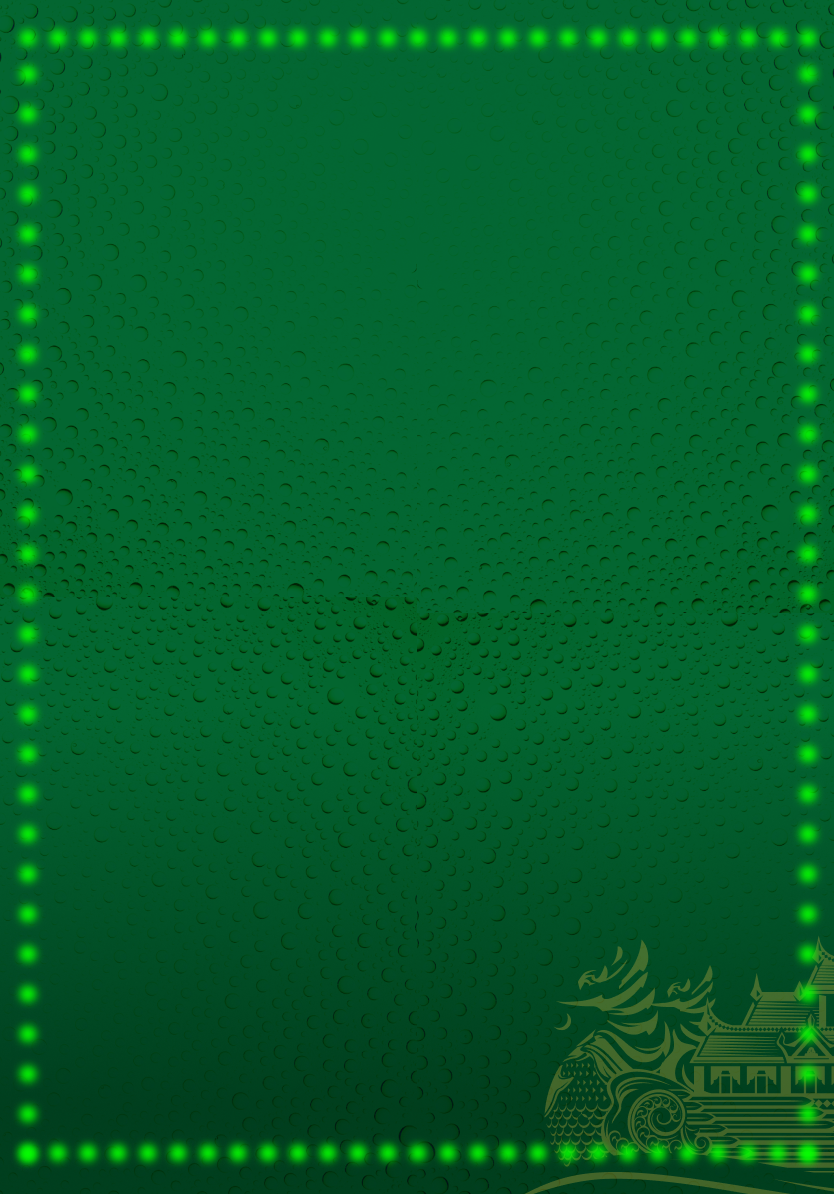
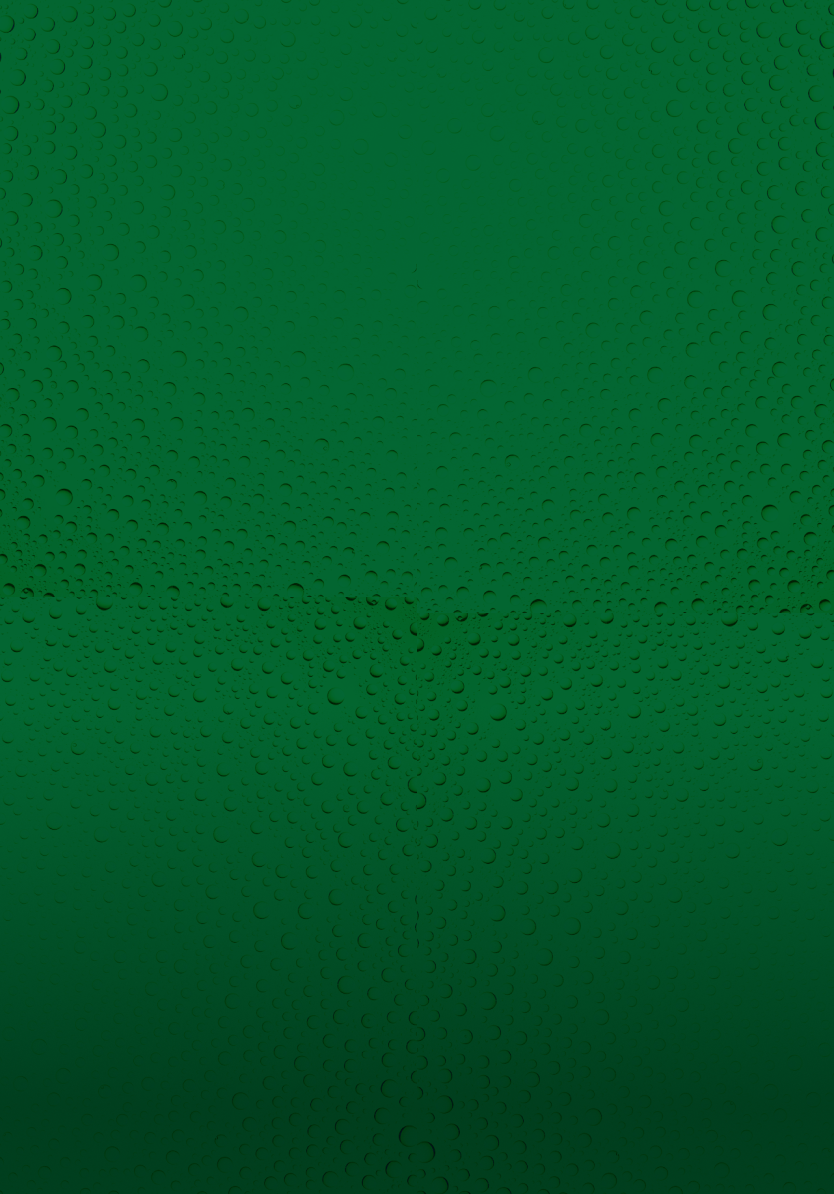
hotfix: bg responsive

Changed region(s): [[0.0, 0.0, 1.0, 1.0]]

diff --git a/src/components/GameSelect.jsx b/src/components/GameSelect.jsx
@@ -2,22 +2,14 @@ import React from "react";
 
 const GameSelect = () => {
   return (
-    <div className="w-full flex items-center m-auto ">
-      <div className="m-auto flex flex-col items-center space-y-10">
-        <div>
-          <img src="/assets/spin.png" alt="" />
-        </div>
-        <div>
-          <img src="/assets/spintext.png" alt="" />
-        </div>
+    <div className="w-full flex justify-evenly items-center px-10 gap-x-10">
+      <div className="flex flex-col items-center space-y-10">
+        <img src="/assets/spin.png" alt="spin" />
+        <img src="/assets/spintext.png" alt="spin text" />
       </div>
-      <div className="m-auto flex flex-col items-center space-y-10">
-        <div>
-          <img src="/assets/can.png" alt="" />
-        </div>
-        <div className="">
-          <img src="/assets/cantext.png" alt="" />
-        </div>
+      <div className="flex flex-col items-center space-y-10">
+        <img src="/assets/can.png" alt="can" />
+        <img src="/assets/cantext.png" alt="can text" />
       </div>
     </div>
   );

diff --git a/src/App.jsx b/src/App.jsx
@@ -1,11 +1,32 @@
 import { useState } from "react";
 
 import "./App.css";
+import GameSelect from "./components/GameSelect";
 
 function App() {
-  const [count, setCount] = useState(0);
-
-  return <main className="backdrop h-screen"></main>;
+  return (
+    <main className="relative bg-[#003F1E] bg-no-repeat bg-center min-h-screen flex justify-center items-center ">
+      <div className="absolute left-0 top-0 w-[40%]">
+        <div
+          className="game-text-bg bg-[#FF9900]/80 md:p-[2rem_2rem_3rem_2rem] p-[1rem_2rem_2rem_1rem] "
+        >
+          <img
+            src="/assets/game.png"
+            alt="beer game logo"
+            className="md:w-[80%] w-full"
+          />
+        </div>
+        <img
+          src="/assets/logo.png"
+          alt="logo"
+          className="ml-auto -mt-5 md:-mt-10 z-20 relative w-20 md:w-auto"
+        />
+      </div>
+      <div className="flex flex-col md:flex-row items-center login w-full h-full justify-center">
+        <GameSelect />
+      </div>
+    </main>
+  );
 }
 
 export default App;

diff --git a/src/App.css b/src/App.css
@@ -1,22 +1,12 @@
-/* .backdrop {
+main {
+  border: 20px dotted transparent;
+  border-image: url("/assets/border.png") 30;
+  border-image-repeat: round;
   background-image: url("/assets/backdrop.png");
-  background-repeat: no-repeat;
-  background-position: center;
-} */
+  background-size: 100% 100%;
+}
 
-/* .login{
-  background-image: url("/assets/login.png");
-  background-size: contain;
-  background-position: center; */
-  /* backgroundPosition: center; */
-  /* width: 100%; */
-  /* height: 100%; */
-  /* backgroundImage: 'url("your-image-url.jpg")', */
-      
-      
-  /* background-repeat: no-repeat; */
-  /* background-position: center; */
-/* } */
-
-
+.game-text-bg {
+  clip-path: polygon(0% 0%, 100% 0%, 90% 100%, 0% 90%);
+}
 

diff --git a/src/main.jsx b/src/main.jsx
@@ -8,8 +8,6 @@ import Login from "./pages/Login.jsx";
 
 ReactDOM.createRoot(document.getElementById("root")).render(
   <React.StrictMode>
-    <Login />
-    {/* <Loading /> */}
-    {/* <Backdrop /> */}
+    <App/>
   </React.StrictMode>
 );
